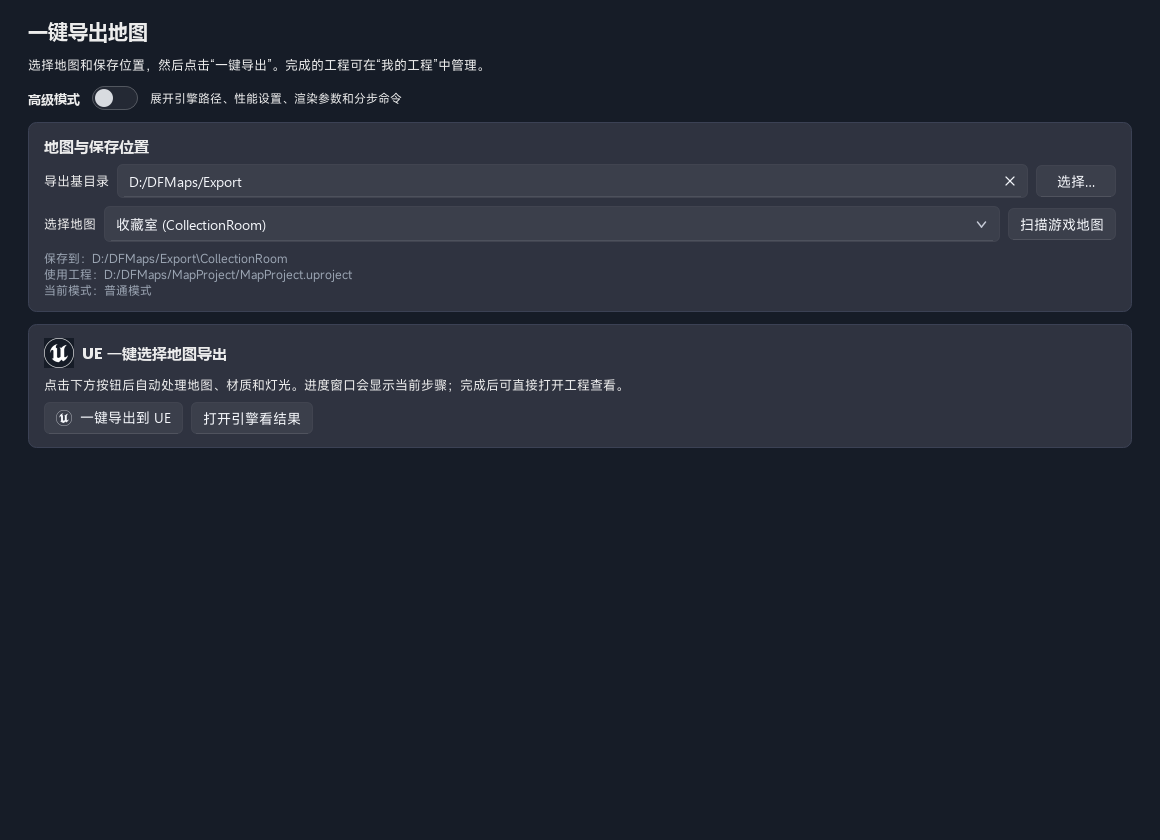
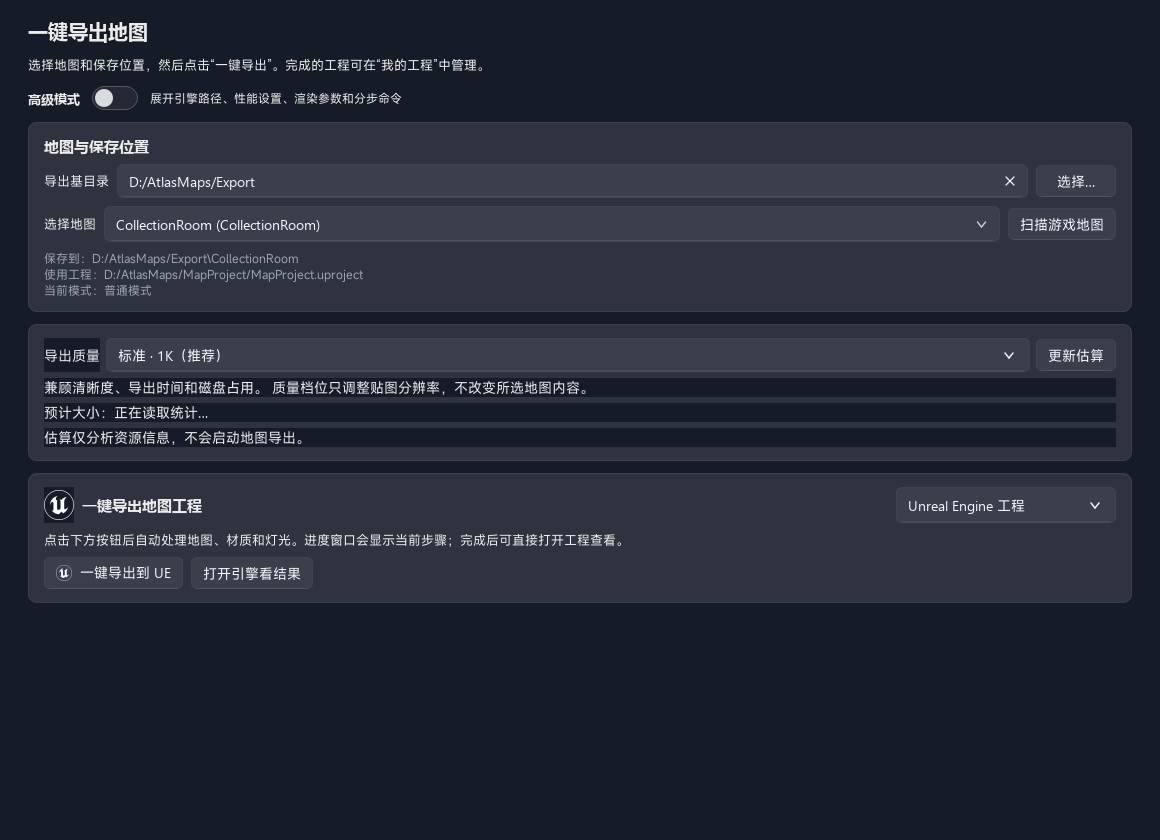
去品牌：向导截图墙与教程图改为本程序界面重制，补生成脚本

Changed region(s): [[0.0, 0.4024, 0.9931, 0.7429], [0.0931, 0.1857, 0.3103, 0.3405]]

diff --git a/tools/make_wizard_bg.py b/tools/make_wizard_bg.py
@@ -1,0 +1,272 @@
+"""生成首次启动向导的背景素材（左侧留白放向导面板，右侧 3 行 45° 斜置软件截图）。
+
+产物（都在 assets/）：
+    wizard_base.png   纯底：渐变 + 柔光 + 左侧压暗 + 边缘淡出（没有卡片）
+    wizard_row1..3.png  三条横平竖直的截图带子（卡片本身不转，画的时候整体转 −45°）
+    wizard_rows.json  画布尺寸 + 每条带子的中心坐标（Qt 端按这个摆）
+    wizard_bg.png     把上面几层合成好的整图（静态兜底 / 预览用）
+
+卡片带子是横的（不是旋转后的透明大图），PNG 小得多；Qt 里用 QPainter 旋转绘制，
+所以「三行从屏幕外面飞进来」是逐行做的动画，不需要一份旋转好的位图。
+
+用法：
+    python tools/make_wizard_bg.py                 # 2560x1600
+    python tools/make_wizard_bg.py --size 1920x1200
+"""
+
+from __future__ import annotations
+
+import argparse
+import json
+import math
+import os
+import random
+
+from PIL import Image, ImageDraw, ImageFilter
+
+ROOT = os.path.dirname(os.path.dirname(os.path.abspath(__file__)))
+ASSETS = os.path.join(ROOT, "assets")
+PAGES = ASSETS
+OUT = os.path.join(ASSETS, "wizard_bg.png")
+
+TOP = (11, 30, 51)
+BOTTOM = (18, 54, 92)
+ACCENT = (32, 96, 160)
+
+ROWS = 3
+PER_ROW = 6
+CARD_W = 400
+GAP = 8
+ANGLE = 45.0          # 整行倾斜角度（按需求 45°）
+CARD_RADIUS = 26
+BORDER = 7
+
+PICK = [
+    "tutorial_maps.png", "tutorial_ue.png",
+    "tutorial_performance.png", "tutorial_progress.png",
+]
+
+
+def gradient(size, top, bottom):
+    w, h = size
+    img = Image.new("RGB", (w, h))
+    d = ImageDraw.Draw(img)
+    for y in range(h):
+        t = y / max(1, h - 1)
+        # 中间偏亮一点，别死板
+        k = 0.5 + 0.5 * math.sin(math.pi * min(1.0, t * 1.05))
+        c = tuple(int(top[i] + (bottom[i] - top[i]) * (0.55 * t + 0.45 * k))
+                  for i in range(3))
+        d.line([(0, y), (w, y)], fill=c)
+    return img
+
+
+def rounded(im, radius):
+    mask = Image.new("L", im.size, 0)
+    ImageDraw.Draw(mask).rounded_rectangle(
+        (0, 0, im.size[0] - 1, im.size[1] - 1), radius, fill=255)
+    out = im.convert("RGBA")
+    out.putalpha(mask)
+    return out
+
+
+def card(path, width):
+    img = Image.open(path).convert("RGB")
+    target = int(round(width * 9 / 16))
+    scale = min(width / img.size[0], target / img.size[1])
+    img = img.resize((max(1, int(img.size[0] * scale)), max(1, int(img.size[1] * scale))), Image.LANCZOS)
+    plate = Image.new("RGB", (width, target), (10, 22, 34))
+    plate.paste(img, ((width - img.size[0]) // 2, (target - img.size[1]) // 2))
+    img, h = plate, target
+    inner = rounded(img, CARD_RADIUS)
+    canvas = Image.new("RGBA", (width + BORDER * 2, h + BORDER * 2), (0, 0, 0, 0))
+    edge = Image.new("RGBA", canvas.size, (255, 255, 255, 0))
+    ImageDraw.Draw(edge).rounded_rectangle(
+        (0, 0, canvas.size[0] - 1, canvas.size[1] - 1), CARD_RADIUS + BORDER,
+        fill=(255, 255, 255, 235))
+    canvas.alpha_composite(edge)
+    canvas.alpha_composite(inner, (BORDER, BORDER))
+    # 整体压暗 + 偏蓝，让右侧像「背景」而不是「主体」
+    dim = Image.new("RGBA", canvas.size, (12, 34, 58, 96))
+    canvas.alpha_composite(dim)
+    return canvas
+
+
+def shadow(size, blur, alpha):
+    s = Image.new("RGBA", (size[0] + blur * 2, size[1] + blur * 2), (0, 0, 0, 0))
+    d = ImageDraw.Draw(s)
+    d.rounded_rectangle((blur, blur, blur + size[0], blur + size[1]),
+                        CARD_RADIUS + BORDER, fill=(2, 10, 20, alpha))
+    return s.filter(ImageFilter.GaussianBlur(blur * 0.55))
+
+
+def build_base(size):
+    """纯底：渐变 + 右侧柔光 + 左侧压暗 + 左上光斑 + 上下淡边。"""
+    w, h = size
+    base = gradient(size, TOP, BOTTOM).convert("RGBA")
+
+    glow = Image.new("RGBA", size, (0, 0, 0, 0))
+    gd = ImageDraw.Draw(glow)
+    gd.ellipse((w * 0.45, -h * 0.25, w * 1.25, h * 1.15), fill=(56, 132, 210, 60))
+    base.alpha_composite(glow.filter(ImageFilter.GaussianBlur(160)))
+
+    # 左半部分压暗，给向导面板留出可读的底
+    veil = Image.new("RGBA", size, (0, 0, 0, 0))
+    vd = ImageDraw.Draw(veil)
+    for x in range(int(w * 0.62)):
+        a = int(232 * (1 - x / (w * 0.62)) ** 1.25)
+        vd.line([(x, 0), (x, h)], fill=(9, 24, 42, a))
+    base.alpha_composite(veil)
+
+    flare = Image.new("RGBA", size, (0, 0, 0, 0))
+    ImageDraw.Draw(flare).ellipse((-w * 0.25, -h * 0.35, w * 0.45, h * 0.5),
+                                  fill=(32, 96, 160, 90))
+    base.alpha_composite(flare.filter(ImageFilter.GaussianBlur(180)))
+
+    edge = Image.new("RGBA", size, (0, 0, 0, 0))
+    ed = ImageDraw.Draw(edge)
+    fade = int(h * 0.06)
+    for y in range(fade):
+        a = int(150 * (1 - y / fade))
+        ed.line([(0, y), (w, y)], fill=TOP + (a,))
+        ed.line([(0, h - 1 - y), (w, h - 1 - y)], fill=TOP + (a,))
+    base.alpha_composite(edge)
+    return base
+
+
+def build_row(files, row_index, start_index):
+    """一条横平竖直的截图带子（卡片不旋转，整条带子后面在 Qt 里转 −45°）。"""
+    art_w = CARD_W + BORDER * 2
+    art_h = int(round((CARD_W * 9 / 16) + BORDER * 2))
+    pad = 90
+    band_w = PER_ROW * art_w + (PER_ROW - 1) * GAP + pad * 2
+    band_h = art_h + pad * 2
+    band = Image.new("RGBA", (band_w, band_h), (0, 0, 0, 0))
+    for c in range(PER_ROW):
+        name = files[(start_index + c) % len(files)]
+        art = card(os.path.join(PAGES, name), CARD_W)
+        x = pad + c * (art_w + GAP)
+        y = pad
+        sh = shadow(art.size, 30, 120)
+        band.alpha_composite(sh, (x - 30, y - 30))
+        band.alpha_composite(art, (x, y))
+    return band, art_h
+
+
+def build(size):
+    """三行卡片先在带子里横平竖直排好，整条带子转 −45°；再把三条带子各切出来单独存，
+    并算出「这条带子的中心转到画布上的哪里」，Qt 端按同样的角度和中心画回去，
+    和静态整图完全对得上（这就是 3 行能各自飞进来的前提）。"""
+    w, h = size
+    base = build_base(size)
+
+    random.seed(7)
+    files = [f for f in PICK if os.path.exists(os.path.join(PAGES, f))]
+    if not files:
+        raise SystemExit(f"找不到截图：{PAGES}")
+
+    art_h = int(round((CARD_W * 9 / 16) + BORDER * 2))
+    pitch = art_h + 96                    # 行距（带子坐标系）：留出明显缝隙，三行才分得开
+    pad = 34                              # 每行上下多留一点，别把投影切掉
+
+    art_w = CARD_W + BORDER * 2
+    band_pad = 90
+    band_w = PER_ROW * art_w + (PER_ROW - 1) * GAP + band_pad * 2
+    band_h = ROWS * pitch + band_pad * 2
+    band = Image.new("RGBA", (band_w, band_h), (0, 0, 0, 0))
+
+    idx = 0
+    for r in range(ROWS):
+        y = band_pad + r * pitch
+        for c in range(PER_ROW):
+            name = files[idx % len(files)]
+            idx += 1
+            art = card(os.path.join(PAGES, name), CARD_W)
+            x = band_pad + c * (art_w + GAP)
+            sh = shadow(art.size, 30, 120)
+            band.alpha_composite(sh, (x - 30, y - 30))
+            band.alpha_composite(art, (x, y))
+
+    rotated = band.rotate(-ANGLE, resample=Image.BICUBIC, expand=True)
+
+    # 整条带子的中心落在右半球
+    cx0, cy0 = w * 0.78, h * 0.50
+    top_left = (cx0 - rotated.size[0] / 2, cy0 - rotated.size[1] / 2)
+
+    flat = base.copy()
+    flat.alpha_composite(rotated, (int(top_left[0]), int(top_left[1])))
+
+    rad = math.radians(-ANGLE)
+    cos_a, sin_a = math.cos(rad), math.sin(rad)
+
+    def _rot_about_center(px, py):
+        """带子坐标系 → 旋转后图坐标系（PIL rotate 的约定：绕中心转，expand 后挪到新画布中心）。"""
+        bx, by = band_w / 2, band_h / 2
+        dx, dy = px - bx, py - by
+        rx = dx * cos_a + dy * sin_a
+        ry = -dx * sin_a + dy * cos_a
+        return (rotated.size[0] / 2 + rx, rotated.size[1] / 2 + ry)
+
+    # 每条带子：先在 band 坐标系里裁出来，再单独转 −45°，把旋转「烤」进 PNG。
+    # 这样 Qt 端只需要按左上角整块贴图就行 —— 位置和 PIL 整图逐像素一致，
+    # 也不用每帧再 rotate 一次（那才是动画卡的元凶）。
+    rows = []
+    for r in range(ROWS):
+        y0 = band_pad + r * pitch
+        strip = band.crop((0, max(0, y0 - pad), band_w,
+                           min(band_h, y0 + art_h + pad)))
+        sx, sy = _rot_about_center(band_w / 2, y0 + art_h / 2)
+        baked = strip.rotate(-ANGLE, resample=Image.BICUBIC, expand=True)
+        left = top_left[0] + sx - baked.size[0] / 2
+        top = top_left[1] + sy - baked.size[1] / 2
+        rows.append({
+            "file": f"wizard_row{r + 1}.png",
+            "x": round(left, 1),
+            "y": round(top, 1),
+            "w": baked.size[0],
+            "h": baked.size[1],
+            "img": baked,
+        })
+
+    return {
+        "canvas": [w, h],
+        "base": "wizard_base.png",
+        "rows": [{k: v for k, v in row.items() if k != "img"} for row in rows],
+        "flat": flat,
+        "base_img": base,
+        "row_images": [row["img"] for row in rows],
+    }
+
+
+def main() -> int:
+    ap = argparse.ArgumentParser()
+    ap.add_argument("--size", default="2560x1600")
+    ap.add_argument("--out", default=OUT)
+    args = ap.parse_args()
+    w, h = (int(x) for x in args.size.lower().split("x"))
+    data = build((w, h))
+    os.makedirs(ASSETS, exist_ok=True)
+
+    data["flat"].convert("RGB").save(args.out, "PNG", optimize=True)
+    data["base_img"].convert("RGB").save(os.path.join(ASSETS, "wizard_base.png"),
+                                         "PNG", optimize=True)
+    for i, img in enumerate(data["row_images"], start=1):
+        img.save(os.path.join(ASSETS, f"wizard_row{i}.png"), "PNG", optimize=True)
+    for row in data["rows"]:
+        row.pop("img", None)
+    meta = {"canvas": data["canvas"], "base": data["base"], "rows": data["rows"]}
+    with open(os.path.join(ASSETS, "wizard_rows.json"), "w", encoding="utf-8") as fh:
+        json.dump(meta, fh, ensure_ascii=False, indent=2)
+
+    total = sum(os.path.getsize(os.path.join(ASSETS, n))
+                for n in ["wizard_base.png", "wizard_row1.png",
+                          "wizard_row2.png", "wizard_row3.png"])
+    print(f"[wizard-bg] {args.out} ({w}x{h}, "
+          f"{os.path.getsize(args.out) / 1048576:.1f} MB)")
+    print(f"[wizard-bg] 分层素材 {total / 1048576:.1f} MB"
+          f"（base + 3 条带子），清单 assets/wizard_rows.json")
+    return 0
+
+
+if __name__ == "__main__":
+    raise SystemExit(main())

diff --git a/tools/capture_wizard_tutorial.py b/tools/capture_wizard_tutorial.py
@@ -22,10 +22,10 @@ for name in ('msyh.ttc','msyhbd.ttc','segoeui.ttf'):
     if font.exists(): QFontDatabase.addApplicationFont(str(font))
 app.setFont(QFont('Microsoft YaHei',10))
 destination=Path(__file__).resolve().parents[1]/'assets'
-settings=dict(paks='D:/DeltaForce/DeltaForce/Content/Paks',outdir='D:/AtlasMaps',
-              ue_engine='D:/UE_5.4/Engine/Binaries/Win64/UnrealEditor.exe',
+settings=dict(paks='D:/AtlasMap-build/Game/DeltaForce/Content/Paks',outdir='D:/AtlasMaps/Export',
+              ue_engine='C:/Program Files/Epic Games/UE_5.4/Engine/Binaries/Win64/UnrealEditor.exe',
               ue_project='D:/AtlasMaps/MapProject/MapProject.uproject',
-              blender='D:/Blender/blender.exe',ue_export_base='D:/AtlasMaps/Export',
+              blender='C:/Program Files/Blender Foundation/Blender 4.2/blender.exe',ue_export_base='D:/AtlasMaps/Export',
               ue_map='CollectionRoom',parallel_export=False,parallel_processes=2)
 class Host(QWidget):
     def status(self,*args): pass
@@ -37,12 +37,12 @@ def save(widget,name):
     app.processEvents()
     assert widget.grab().save(str(destination/name))
 
-with patch.object(dfmap,'load_settings',side_effect=lambda:dict(settings)), \
-     patch.object(dfmap,'save_settings'),patch.object(dfmap,'write_exporter_config'), \
+with patch.object(exporter,'load_settings',side_effect=lambda:dict(settings)), \
+     patch.object(exporter,'save_settings'),patch.object(exporter,'write_exporter_config'), \
      patch('app.ue_page._detect_engine',return_value=settings['ue_engine']), \
      patch('app.ue_page._detect_blender',return_value=settings['blender']):
     host=Host()
-    with patch.object(dfmap,'load_presets',return_value=[]):
+    with patch.object(exporter,'load_presets',return_value=[]):
         host.map_page=MapPage(host)
     save(host.map_page,'tutorial_maps.png')
     host.map_page.hide()

diff --git a/docs/wizard-assets.md b/docs/wizard-assets.md
@@ -1,0 +1,27 @@
+# 首启向导与教程图的来源
+
+`assets/` 下这几张图都是**本程序自己的界面截图**，不含游戏美术、不含游戏地图名：
+
+| 文件 | 内容 | 生成方式 |
+| --- | --- | --- |
+| `tutorial_maps.png` | 地图库页与导出设置面板 | `tools/capture_wizard_tutorial.py` |
+| `tutorial_ue.png` | UE 导出页 | 同上 |
+| `tutorial_performance.png` | 性能/并行设置卡片 | 同上 |
+| `tutorial_progress.png` | 导出进度窗口 | 同上 |
+| `wizard_base.png` | 渐变底 + 左侧压暗 | `tools/make_wizard_bg.py` |
+| `wizard_row1..3.png` | 三条 45° 斜置的截图带子 | 同上（卡片取自上面四张教程图） |
+| `wizard_rows.json` | 三条带子的画布坐标 | 同上 |
+| `wizard_bg.png` | 上面几层合成好的静态兜底图 | 同上 |
+
+两张脚本都只读本地界面、不触发导出、不改用户设置：
+
+```bash
+python tools/capture_wizard_tutorial.py     # 重新截四张教程图
+python tools/make_wizard_bg.py              # 重新拼向导背景（默认 2560x1600）
+```
+
+截图里的路径都是占位（`D:/AtlasMaps/Export` 之类），不指向任何真实安装；地图行显示的是
+pak 里的关卡代号，中文显示名由 `core/mapnames.json` 决定，本仓库给的是中性名称。
+
+换主题/改文案后重跑上面两条命令即可，`app/wizard.py` 会按 `wizard_rows.json` 自动摆放。
+如果只想换底图不换截图，单独跑 `make_wizard_bg.py` 就行。
